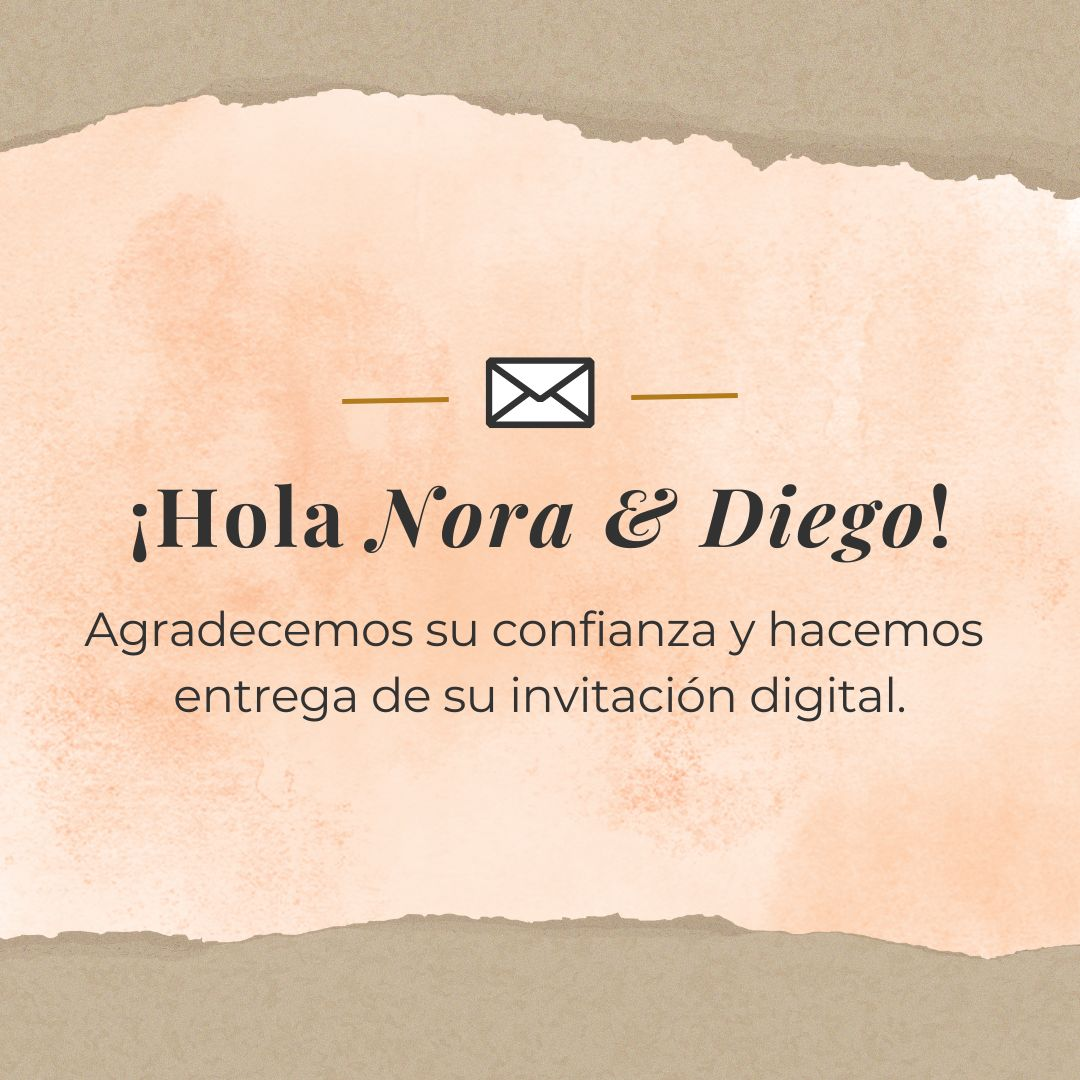
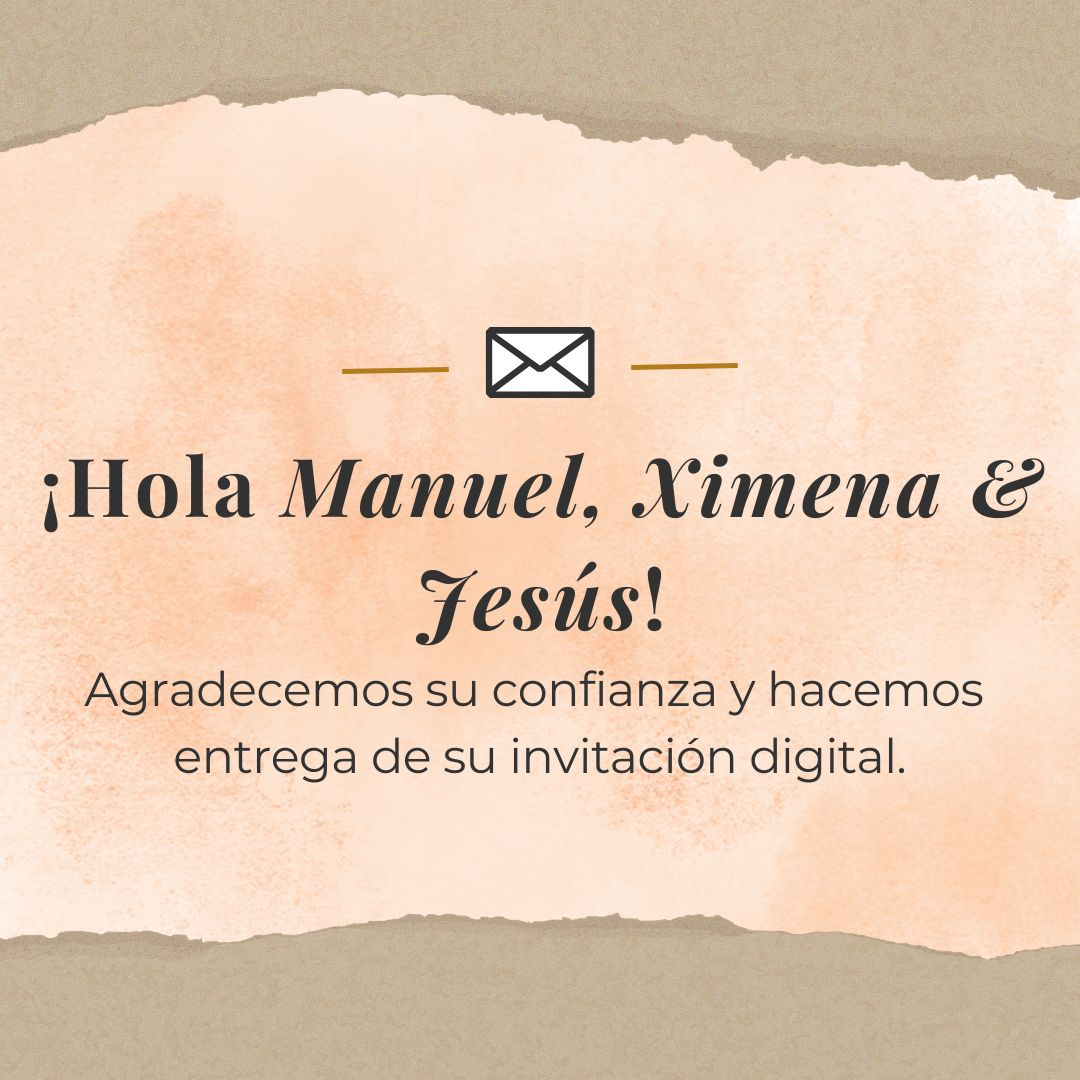
Add files via upload

Changed region(s): [[0.0306, 0.3056, 0.9778, 0.7333], [0.5806, 0.3361, 0.7028, 0.3972]]

diff --git a/js/index.js b/js/index.js
@@ -460,202 +460,8 @@ $(document).ready(function(){
 
 	
 });
-function confirmaciones() {
-    window.open("https://docs.google.com/spreadsheets/d/1KFW_1vi4KKqBXMbvYfz3sRVKZ03RBrOXMs06YVhboTI/edit?usp=sharing");        
-}
-function personas1() {
-    window.open("pases/inicio1.html", "_self");        
-}
-function personas2() {
-    window.open("pases/inicio2.html", "_self");        
-}
-function personas3() {
-    window.open("pases/inicio3.html", "_self");        
-}
-function personas4() {
-    window.open("pases/inicio4.html", "_self");        
-}
-function personas5() {
-    window.open("pases/inicio5.html", "_self");        
-}
-function personas6() {
-    window.open("pases/inicio6.html", "_self");        
-}
-function personas7() {
-    window.open("pases/inicio7.html", "_self");        
-}
-function personas8() {
-    window.open("pases/inicio8.html", "_self");        
-}
-function personas9() {
-    window.open("pases/inicio9.html", "_self");        
-}
-function personas10() {
-    window.open("pases/inicio10.html", "_self");        
-}
-function personas11() {
-    window.open("pases/inicio11.html", "_self");        
-}
-function personas12() {
-    window.open("pases/inicio12.html", "_self");        
-}
-
- function copiar1(){
+ function copiar(){
   var origen = document.getElementById('target1');
-  var destino = document.getElementById('target10');
-  var copyFrom = document.createElement("textarea");
-  copyFrom.textContent = origen.value;
-  var body = document.getElementsByTagName('body')[0];
-  body.appendChild(copyFrom);
-  copyFrom.select();
-  document.execCommand('copy');
-  alert("Copiado al portapapeles!");
-  body.removeChild(copyFrom);
-  destino.focus();
-  document.execCommand('paste');
-}
- function copiar2(){
-  var origen = document.getElementById('target2');
-  var destino = document.getElementById('target10');
-  var copyFrom = document.createElement("textarea");
-  copyFrom.textContent = origen.value;
-  var body = document.getElementsByTagName('body')[0];
-  body.appendChild(copyFrom);
-  copyFrom.select();
-  document.execCommand('copy');
-  alert("Copiado al portapapeles!");
-  body.removeChild(copyFrom);
-  destino.focus();
-  document.execCommand('paste');
-}
- function copiar3(){
-  var origen = document.getElementById('target3');
-  var destino = document.getElementById('target10');
-  var copyFrom = document.createElement("textarea");
-  copyFrom.textContent = origen.value;
-  var body = document.getElementsByTagName('body')[0];
-  body.appendChild(copyFrom);
-  copyFrom.select();
-  document.execCommand('copy');
-  alert("Copiado al portapapeles!");
-  body.removeChild(copyFrom);
-  destino.focus();
-  document.execCommand('paste');
-}
- function copiar4(){
-  var origen = document.getElementById('target4');
-  var destino = document.getElementById('target10');
-  var copyFrom = document.createElement("textarea");
-  copyFrom.textContent = origen.value;
-  var body = document.getElementsByTagName('body')[0];
-  body.appendChild(copyFrom);
-  copyFrom.select();
-  document.execCommand('copy');
-  alert("Copiado al portapapeles!");
-  body.removeChild(copyFrom);
-  destino.focus();
-  document.execCommand('paste');
-}
- function copiar5(){
-  var origen = document.getElementById('target5');
-  var destino = document.getElementById('target10');
-  var copyFrom = document.createElement("textarea");
-  copyFrom.textContent = origen.value;
-  var body = document.getElementsByTagName('body')[0];
-  body.appendChild(copyFrom);
-  copyFrom.select();
-  document.execCommand('copy');
-  alert("Copiado al portapapeles!");
-  body.removeChild(copyFrom);
-  destino.focus();
-  document.execCommand('paste');
-}
- function copiar6(){
-  var origen = document.getElementById('target6');
-  var destino = document.getElementById('target10');
-  var copyFrom = document.createElement("textarea");
-  copyFrom.textContent = origen.value;
-  var body = document.getElementsByTagName('body')[0];
-  body.appendChild(copyFrom);
-  copyFrom.select();
-  document.execCommand('copy');
-  alert("Copiado al portapapeles!");
-  body.removeChild(copyFrom);
-  destino.focus();
-  document.execCommand('paste');
-}
- function copiar7(){
-  var origen = document.getElementById('target7');
-  var destino = document.getElementById('target10');
-  var copyFrom = document.createElement("textarea");
-  copyFrom.textContent = origen.value;
-  var body = document.getElementsByTagName('body')[0];
-  body.appendChild(copyFrom);
-  copyFrom.select();
-  document.execCommand('copy');
-  alert("Copiado al portapapeles!");
-  body.removeChild(copyFrom);
-  destino.focus();
-  document.execCommand('paste');
-}
- function copiar8(){
-  var origen = document.getElementById('target8');
-  var destino = document.getElementById('target10');
-  var copyFrom = document.createElement("textarea");
-  copyFrom.textContent = origen.value;
-  var body = document.getElementsByTagName('body')[0];
-  body.appendChild(copyFrom);
-  copyFrom.select();
-  document.execCommand('copy');
-  alert("Copiado al portapapeles!");
-  body.removeChild(copyFrom);
-  destino.focus();
-  document.execCommand('paste');
-}
- function copiar9(){
-  var origen = document.getElementById('target9');
-  var destino = document.getElementById('target10');
-  var copyFrom = document.createElement("textarea");
-  copyFrom.textContent = origen.value;
-  var body = document.getElementsByTagName('body')[0];
-  body.appendChild(copyFrom);
-  copyFrom.select();
-  document.execCommand('copy');
-  alert("Copiado al portapapeles!");
-  body.removeChild(copyFrom);
-  destino.focus();
-  document.execCommand('paste');
-}
- function copiar10(){
-  var origen = document.getElementById('target10');
-  var destino = document.getElementById('target10');
-  var copyFrom = document.createElement("textarea");
-  copyFrom.textContent = origen.value;
-  var body = document.getElementsByTagName('body')[0];
-  body.appendChild(copyFrom);
-  copyFrom.select();
-  document.execCommand('copy');
-  alert("Copiado al portapapeles!");
-  body.removeChild(copyFrom);
-  destino.focus();
-  document.execCommand('paste');
-}
- function copiar11(){
-  var origen = document.getElementById('target11');
-  var destino = document.getElementById('target10');
-  var copyFrom = document.createElement("textarea");
-  copyFrom.textContent = origen.value;
-  var body = document.getElementsByTagName('body')[0];
-  body.appendChild(copyFrom);
-  copyFrom.select();
-  document.execCommand('copy');
-  alert("Copiado al portapapeles!");
-  body.removeChild(copyFrom);
-  destino.focus();
-  document.execCommand('paste');
-}
- function copiar12(){
-  var origen = document.getElementById('target12');
   var destino = document.getElementById('target10');
   var copyFrom = document.createElement("textarea");
   copyFrom.textContent = origen.value;

diff --git a/css/index.css b/css/index.css
@@ -42,14 +42,7 @@ div.container-fluid{
 }
 
 
-.nav .nav-item .nav-link{
-  color:#323232;
-}
-.nav .nav-item .nav-link.active{
-  background-color: #FCD4B7;
-  color:#fff;
-  
-}
+
 
 .cliente{
 font-family: 'Playfair Display', serif;